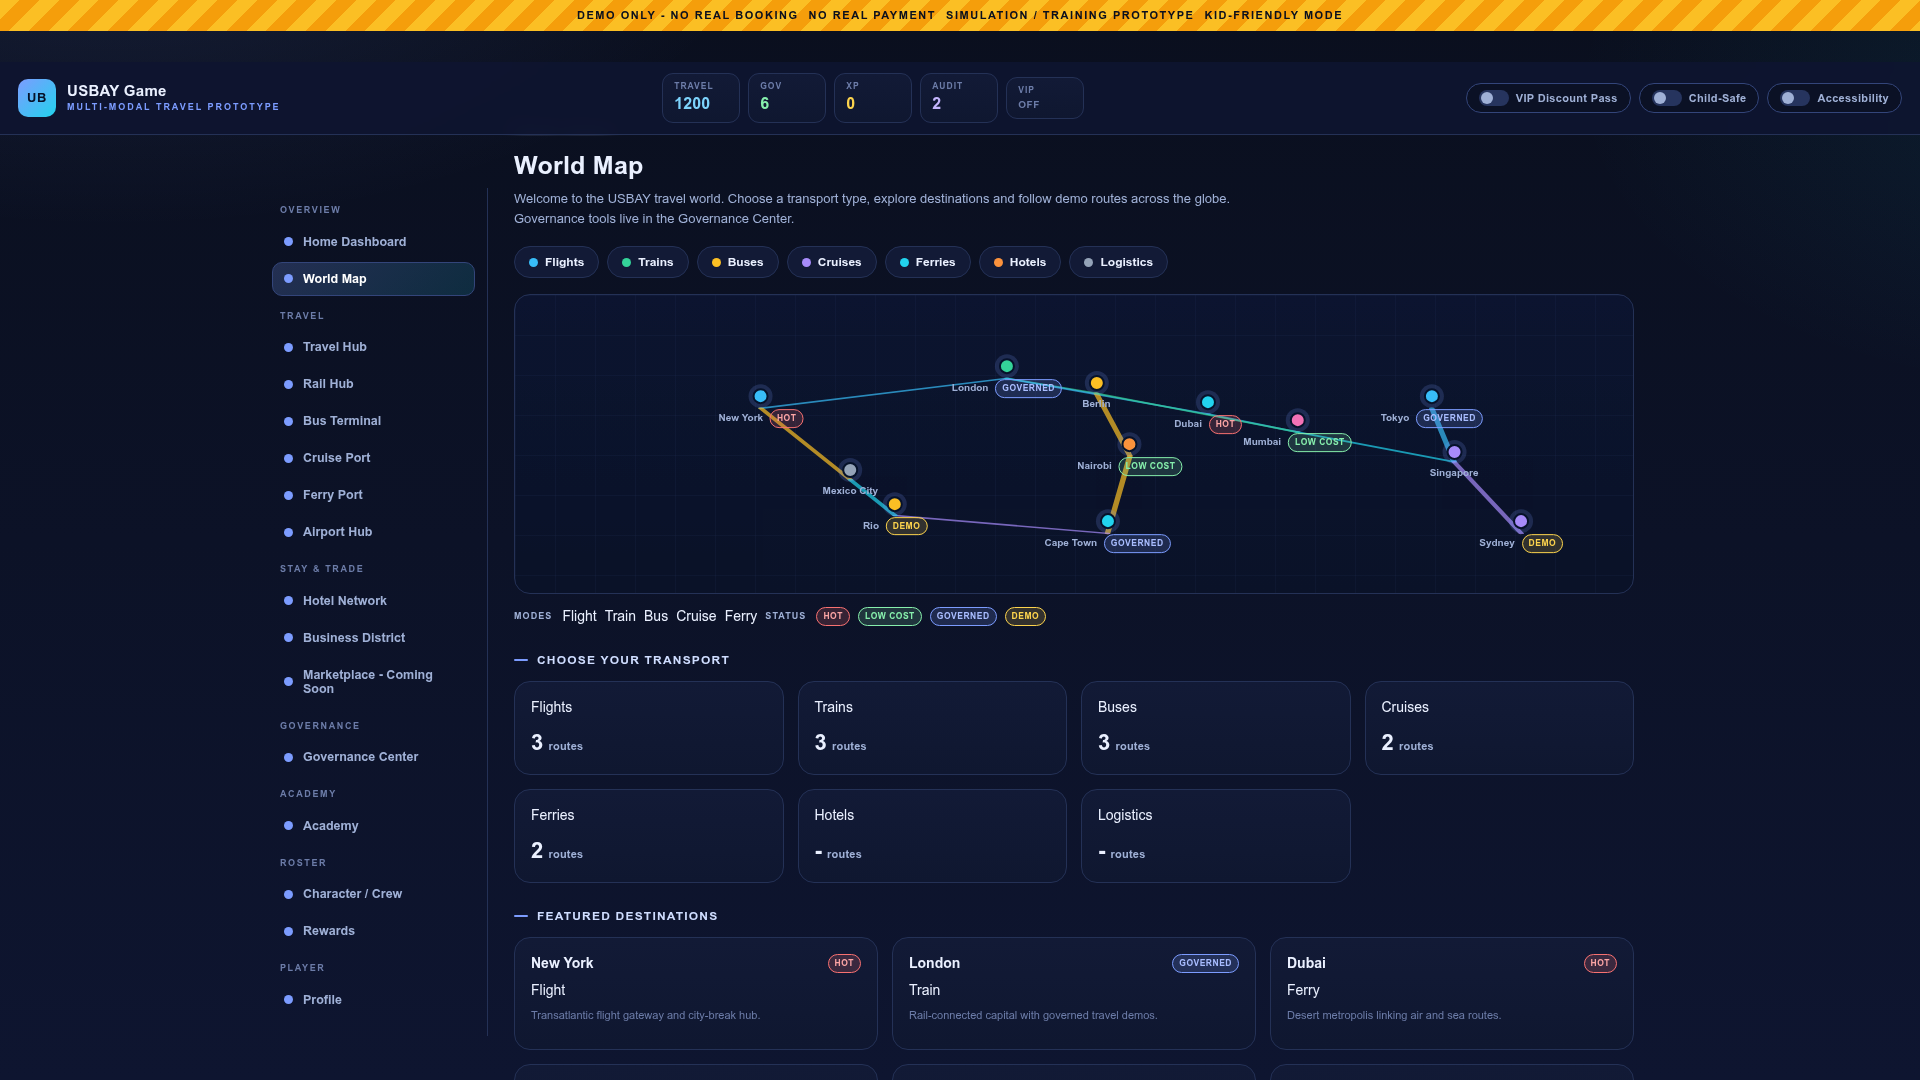
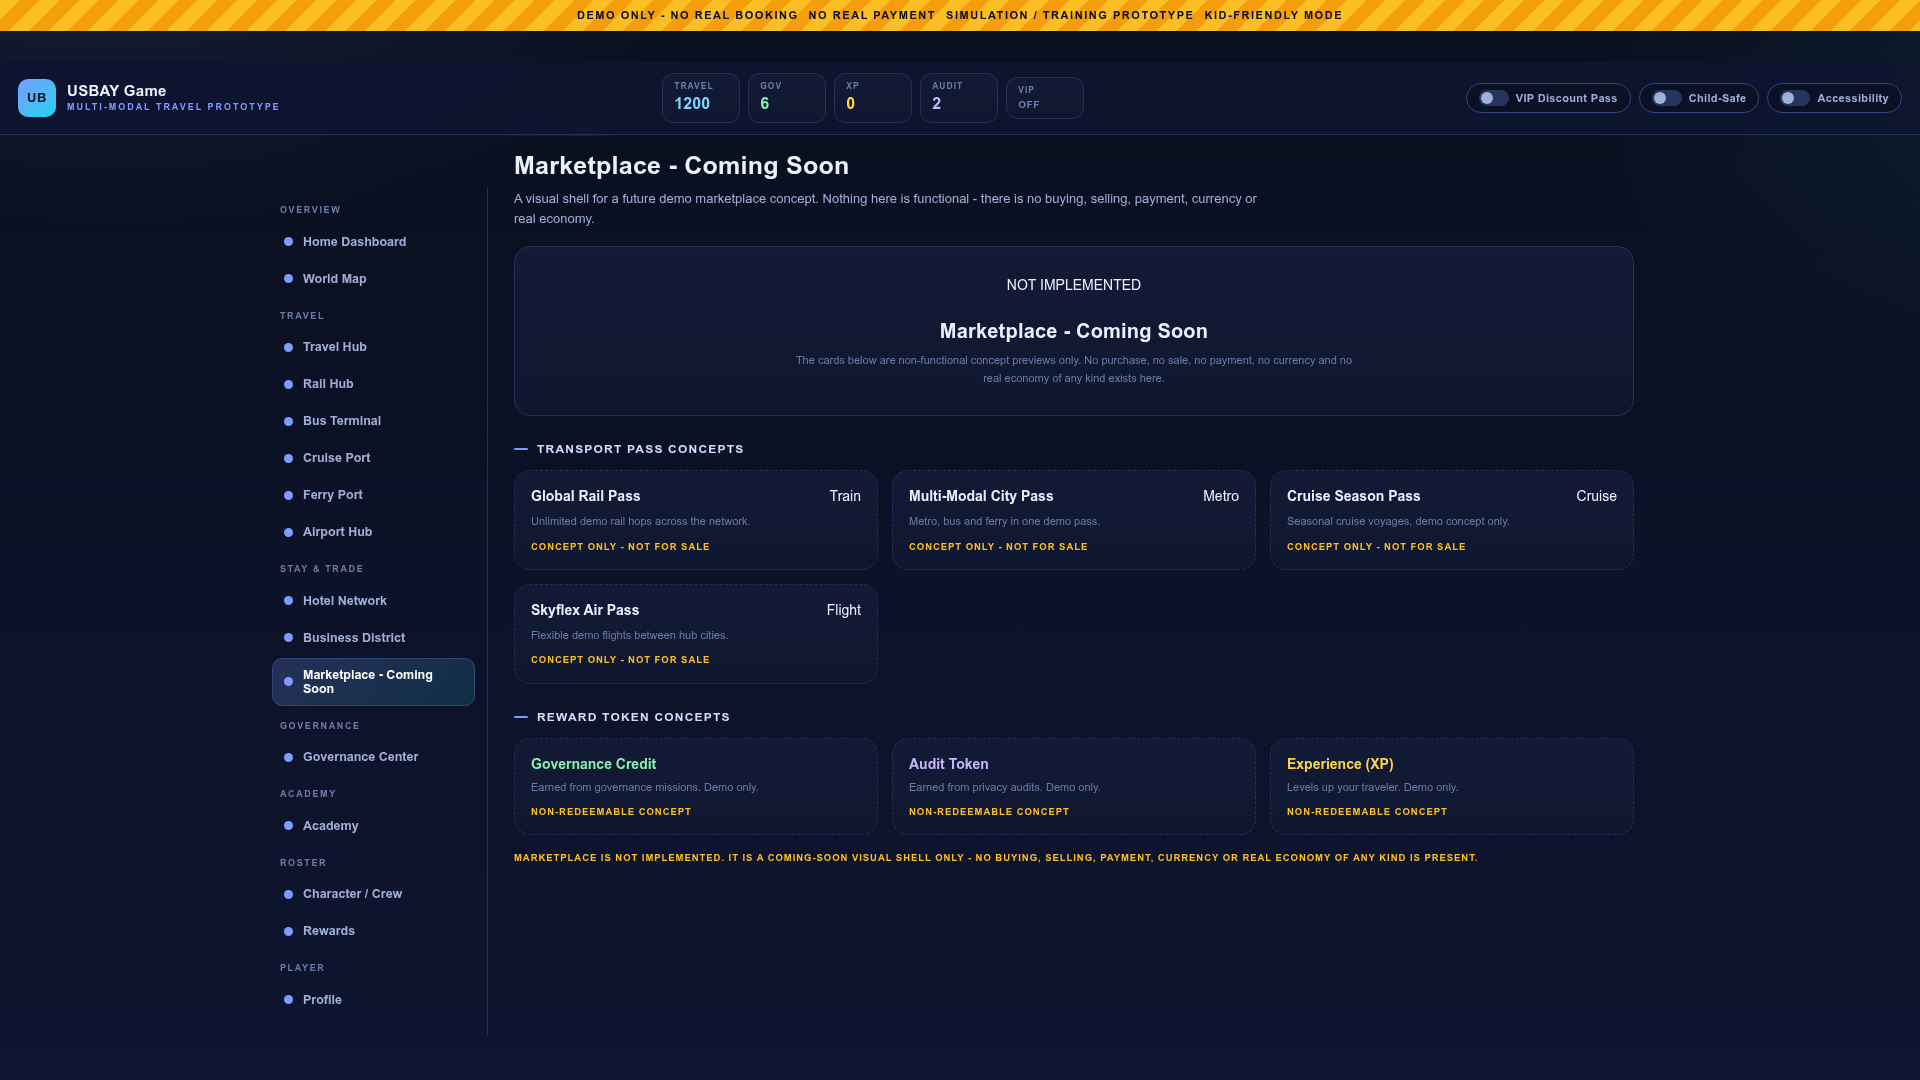
Add ability to navigate directly to specific screens using URL parameters
Introduces `screenFromQuery()` to `gateway/app.py` to support query parameter deep-linking, allowing users to access specific game screens via URLs like `?s=<screenId>`. This complements existing hash-based navigation and ensures screenshots capture distinct views.

Replit-Commit-Author: Agent
Replit-Commit-Session-Id: 10dcf6be-d557-4147-8701-eb32a3d14e91
Replit-Commit-Checkpoint-Type: full_checkpoint
Replit-Commit-Event-Id: 4689cb7c-b0ee-471d-a3e8-2483ccb9c0e5
Replit-Commit-Screenshot-Url: https://storage.googleapis.com/screenshot-production-us-central1/76bb5c69-eeb6-4278-9927-109581d606aa/10dcf6be-d557-4147-8701-eb32a3d14e91/6yDfbXo
Replit-Helium-Checkpoint-Created: true

diff --git a/gateway/app.py b/gateway/app.py
@@ -20129,10 +20129,18 @@ def usbay_game_html() -> str:
     for(var i=0;i<SCREENS.length;i++){if(SCREENS[i].id===h)return h;}
     return "";
   }
+  function screenFromQuery(){
+    var q=String(window.location.search||"");
+    var m=q.match(/[?&](?:s|screen)=([^&]+)/);
+    if(!m)return "";
+    var v=decodeURIComponent(m[1]).replace(/^#/,"");
+    for(var i=0;i<SCREENS.length;i++){if(SCREENS[i].id===v)return v;}
+    return "";
+  }
   window.addEventListener("hashchange",function(){var id=screenFromHash();if(id&&id!==active)show(id);});
 
   // ---- init ----
-  buildNav();renderWallet();show(screenFromHash()||"map");
+  buildNav();renderWallet();show(screenFromHash()||screenFromQuery()||"map");
 })();
 </script>
 </body>

diff --git a/.agents/memory/usbay-governance-dashboard.md b/.agents/memory/usbay-governance-dashboard.md
@@ -285,3 +285,8 @@ run from the workspace root (not `/tmp`) or Node ESM can't resolve `import "jsdo
 - **Non-obvious:** the game DOM tests' `== 15` assertions count `tripCount`/`multiModalTripCount` (trips in the hub), NOT screens — adding screens is safe; do NOT "fix" those to 16.
 - **Game copy safety:** the screen-corpus safety scan forbids the literal substring "checkout" (and other CTA words) ANYWHERE, even inside negative disclaimers ("no ... checkout") — keep such trigger words out of /game text.
 - New screen-visibility harness/test pair: `tests/game_screen_visibility_harness.mjs` + `tests/test_game_screen_visibility_dom.py` (run node/jsdom from workspace ROOT). PNG-per-screen automation NOT available (screenshot tool is JPEG app-preview only, can't batch client hash routes) — deep-links + manual path documented in evidence/audit/USBAY_GAME_012R_SCREEN_VISIBILITY_REPORT.md.
+
+## /game per-screen screenshots: external_url drops `#hash`, use `?s=<id>` query deep-link
+The `screenshot` tool's `external_url` renderer strips the URL fragment, so `/game#rail` etc. all boot to the SPA's DEFAULT landing (World Map) — every hash shot came back identical. There is no registered artifact, so `app_preview` is unavailable too.
+**Fix (durable):** the game now supports a QUERY-param deep-link in addition to hash — `screenFromQuery()` reads `?s=<screenId>` or `?screen=<screenId>` (validated against `SCREENS`) and boot is `show(screenFromHash()||screenFromQuery()||"map")`. Query params survive the screenshot renderer, so capture per screen via `…/game?s=home|map|hub|rail|bus|cruise|hotel|marketplace`.
+**Why:** additive, demo-safe, doesn't change default landing (only used when `?s=` present) and keeps the existing hash deep-link/tests green.
